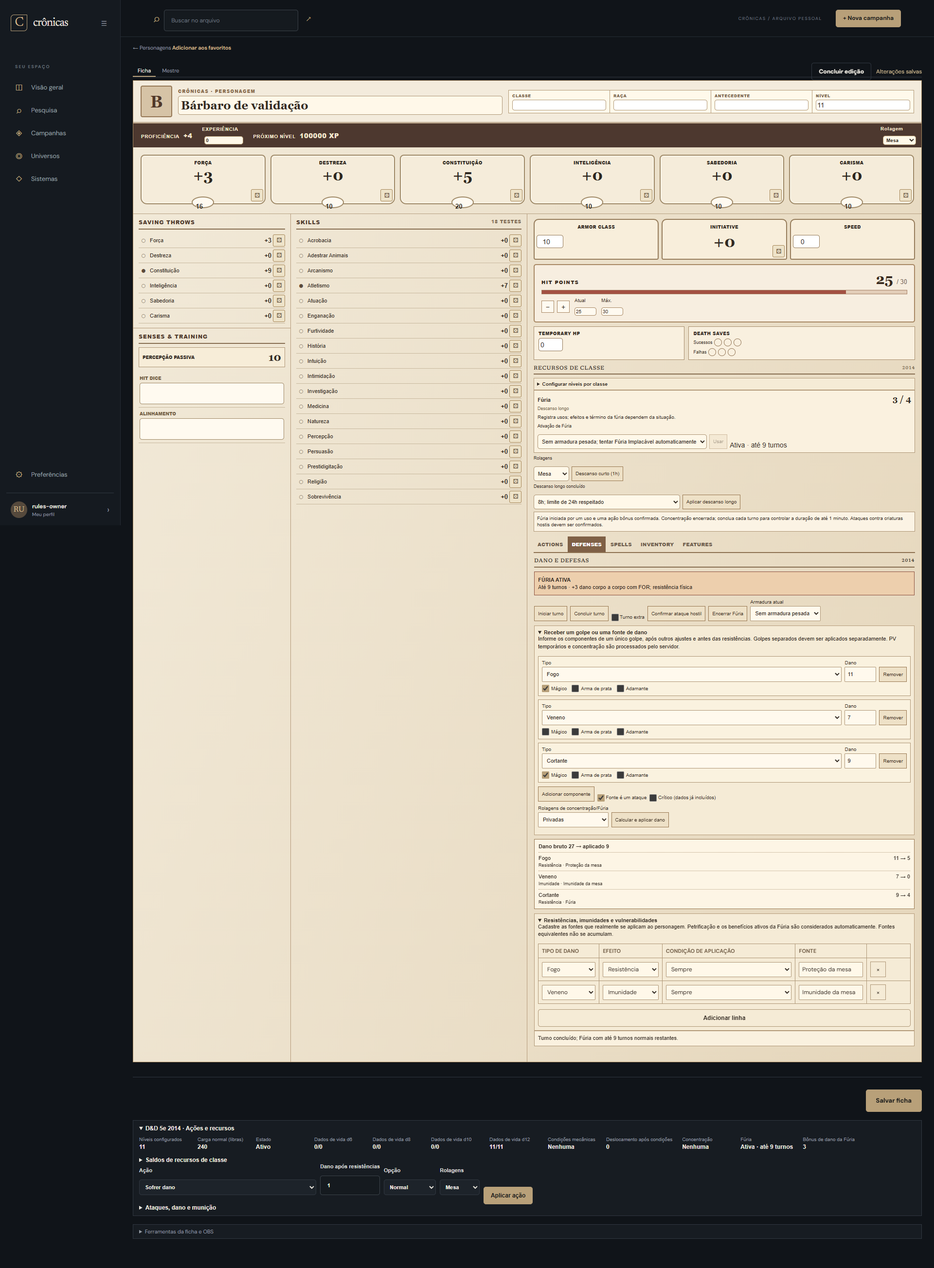
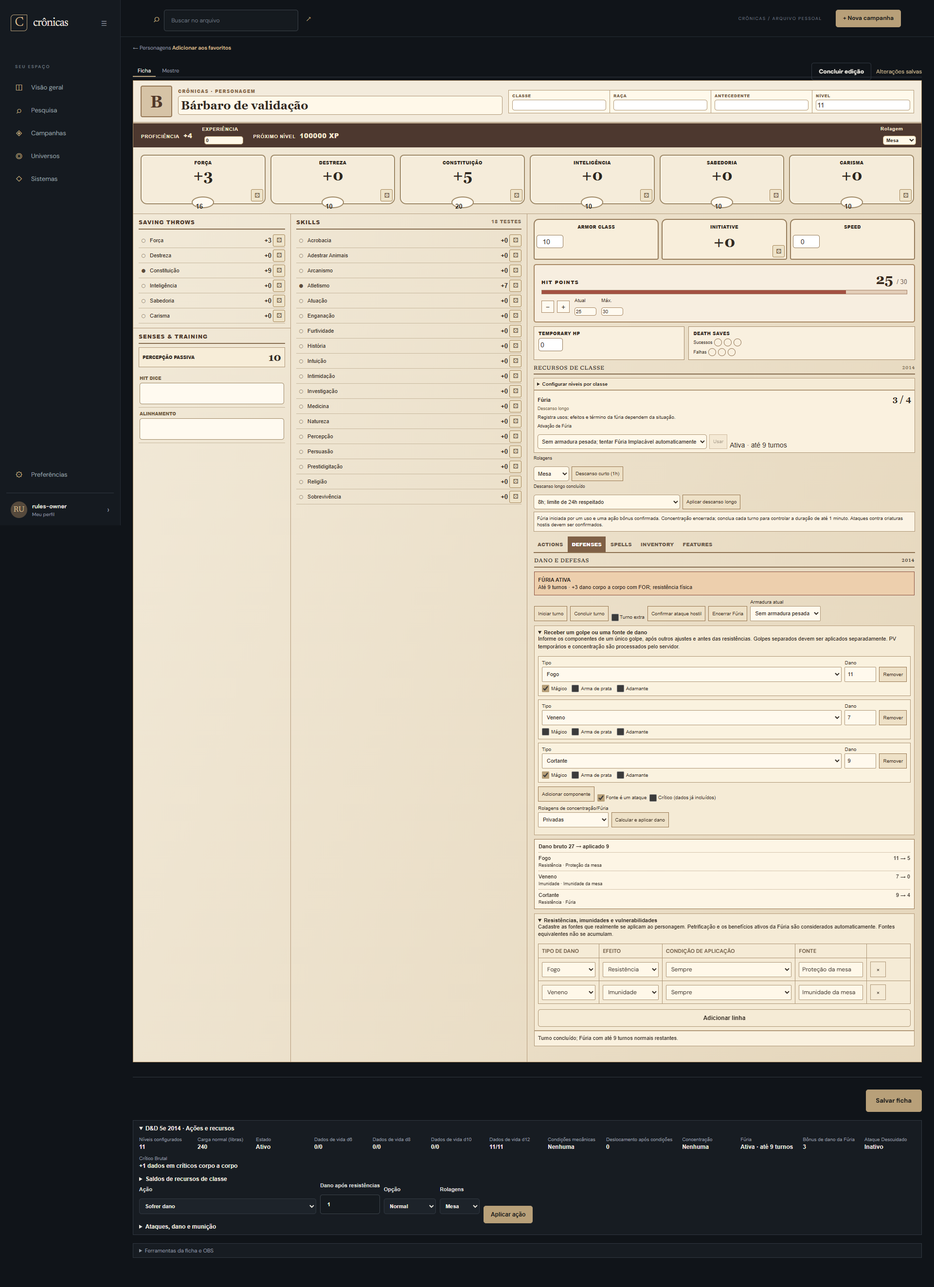
feat: add D&D 2014 reckless attack and brutal critical mechanics

diff --git a/web/src/app/sheet-weapon-list.component.ts b/web/src/app/sheet-weapon-list.component.ts
@@ -10,9 +10,16 @@ type SheetRow = Record<string, SheetCellValue>;
   <section *ngIf="field()" class="weapon-list" aria-label="Ataques do personagem">
     <div *ngIf="mode !== 'print' && rows().length" class="weapon-config"><label *ngIf="system.templateId !== 'call_of_cthulhu_7e'">Defesa do alvo<input type="number" aria-label="Defesa do alvo dos ataques" [(ngModel)]="target" [ngModelOptions]="{standalone:true}" min="0" max="9999"></label>
       <label class="hostile-confirm" *ngIf="system.templateId==='dnd_5e' && system.templateVersion===5"><input type="checkbox" aria-label="Alvo dos ataques é criatura hostil" [(ngModel)]="hostile" [ngModelOptions]="{standalone:true}"> Alvo é criatura hostil</label>
+      <ng-container *ngIf="barbarianAttacks()">
+        <label class="hostile-confirm"><input type="checkbox" aria-label="Ataque fora do meu turno" [(ngModel)]="outsideTurn" (ngModelChange)="reckless=false" [ngModelOptions]="{standalone:true}"> Fora do meu turno (reação)</label>
+        <label class="hostile-confirm"><input type="checkbox" aria-label="Usar Ataque Descuidado no primeiro ataque" [(ngModel)]="reckless" [ngModelOptions]="{standalone:true}" [disabled]="outsideTurn || ruleState('ataques_turno')>0"> Ataque Descuidado no primeiro ataque</label>
+        <label *ngIf="ruleState('nivel_barbaro')>=9">Dado da arma para Crítico Brutal<select aria-label="Dado da arma para Crítico Brutal" [(ngModel)]="brutalDie" [ngModelOptions]="{standalone:true}"><option [ngValue]="0">Automático</option><option *ngFor="let die of weaponDice" [ngValue]="die">d{{ die }}</option></select></label>
+      </ng-container>
       <label *ngIf="system.templateId === 'call_of_cthulhu_7e'">Dificuldade<select [(ngModel)]="difficulty" [ngModelOptions]="{standalone:true}"><option [ngValue]="1">Regular</option><option [ngValue]="2">Difícil</option><option [ngValue]="5">Extrema</option></select></label>
       <label>Visibilidade<select [(ngModel)]="visibility" [ngModelOptions]="{standalone:true}"><option value="campaign">Mesa</option><option value="private">Privada</option></select></label>
     </div>
+    <p *ngIf="barbarianAttacks() && ruleState('descuidado_exposto')" role="status">Ataque Descuidado: ataques contra você têm vantagem até o início do seu próximo turno. {{ ruleState('descuidado_turno') && !outsideTurn ? 'Seus ataques com arma corpo a corpo e FOR recebem vantagem neste turno.' : '' }}</p>
+    <p *ngIf="barbarianAttacks() && ruleState('nivel_barbaro')>=9">Crítico Brutal acrescenta dados da arma em críticos corpo a corpo. Informe somente o dano da arma em Dano base; efeitos adicionais pertencem a Dano extra.</p>
     <div *ngFor="let row of rows(); let index=index" class="weapon-row"><div><strong>{{ text(row,'nome') || 'Ataque sem nome' }}</strong><small>{{ baseLabel(row) }}<span *ngIf="ammo(row) >= 0"> · munição {{ ammo(row) }}</span></small></div><div class="damage"><b>{{ text(row,'dano') || '1' }}</b><small *ngIf="text(row,'dano_extra')">+ {{ text(row,'dano_extra') }} extra</small></div>
       <button *ngIf="mode !== 'print' && character.canEdit" type="button" [disabled]="!ready || busy() || ammo(row) === 0 || !text(row,'nome')" [attr.aria-label]="'Atacar com ' + text(row,'nome')" (click)="attack(index)">{{ busy() ? '…' : 'Rolar' }}</button>
     </div>
@@ -42,6 +49,9 @@ export class SheetWeaponListComponent {
   field() { return this.system.fields.find(field => field.key === 'ataques_regras'); }
   baseOptions() { return {...numericColumnOptions(this.system.fields),...(this.system.templateId==='dnd_5e'?{tipo:[{value:'corpo',label:'Arma corpo a corpo'},{value:'distancia',label:'Arma a distância ou arremessada'}]}:{})}; }
   hostile=false;
+  reckless=false; outsideTurn=false; brutalDie=0; weaponDice=[3,4,6,8,10,12,20,100];
+  ruleState(key:string){const rows=this.draft.fields['estado_regras'];if(!Array.isArray(rows))return 0;const row=rows.find(row=>row && typeof row==='object' && row['chave']===key);return row && typeof row==='object' && typeof row['valor']==='number'?row['valor']:0;}
+  barbarianAttacks(){return this.system.templateId==='dnd_5e' && this.system.templateVersion===5 && this.system.rulesetVersion==='2014' && this.ruleState('nivel_barbaro')>=2;}
   rows(): SheetRow[] { const value = this.draft.fields['ataques_regras']; return Array.isArray(value) && value.every(row => row && typeof row === 'object' && !Array.isArray(row)) ? value as SheetRow[] : []; }
   text(row: SheetRow, key: string) { return typeof row[key] === 'string' ? row[key] as string : ''; }
   baseLabel(row: SheetRow) { return this.system.fields.find(field => field.key === this.text(row, 'base'))?.label || 'Teste de ataque'; }
@@ -49,7 +59,7 @@ export class SheetWeaponListComponent {
   attack(index: number) {
     if (!this.character.canEdit || !this.ready || this.busy()) return;
     this.busy.set(true); this.working.emit(true); this.error.set(''); this.message.set(''); this.rolls.set([]);
-    this.api.applyCharacterRule(this.character.id, this.character.version, { action: 'attack', amount: this.system.templateId === 'call_of_cthulhu_7e' ? this.difficulty : this.target, option: String(index), visibility: this.visibility, ...(this.system.templateId==='dnd_5e' && this.hostile?{expression:'hostile'}:{}) })
-      .pipe(finalize(() => { this.busy.set(false); this.working.emit(false); })).subscribe({ next: result => { this.message.set(result.message); this.rolls.set(result.rolls); this.applied.emit(result.character); }, error: error => this.error.set(apiError(error)) });
+    this.api.applyCharacterRule(this.character.id, this.character.version, { action: 'attack', amount: this.system.templateId === 'call_of_cthulhu_7e' ? this.difficulty : this.target, option: String(index), visibility: this.visibility, ...(this.system.templateId==='dnd_5e' && this.hostile?{expression:'hostile'}:{}),...(this.barbarianAttacks()?{weapon:{reckless:this.reckless,outsideTurn:this.outsideTurn,brutalDie:this.brutalDie}}:{}) })
+      .pipe(finalize(() => { this.busy.set(false); this.working.emit(false); })).subscribe({ next: result => { this.reckless=false;this.message.set(result.message); this.rolls.set(result.rolls); this.applied.emit(result.character); }, error: error => this.error.set(apiError(error)) });
   }
 }

diff --git a/web/src/app/sheet-rule-controls.component.ts b/web/src/app/sheet-rule-controls.component.ts
@@ -17,6 +17,11 @@ interface RuleView { edition: string; actions: RuleAction[]; stats: { label: str
         <label>Ação<select name="ruleAction" [ngModel]="actionId" (ngModelChange)="choose($event)" [disabled]="busy()"><option *ngFor="let item of rules.actions" [value]="item.id">{{ item.label }}</option></select></label>
         <label *ngIf="action()?.amountLabel">{{ action()?.amountLabel }}<input type="number" name="amount" [(ngModel)]="amount" [min]="minimum()" [max]="maximum()" required [disabled]="busy()"></label>
         <label *ngIf="action()?.options?.length">Opção<select name="option" [(ngModel)]="option" [disabled]="busy()"><option *ngFor="let item of action()?.options" [value]="item.value">{{ item.label }}</option></select></label>
+        <ng-container *ngIf="barbarianAttackOptions()">
+          <label class="inline-check"><input type="checkbox" name="outsideTurn" [(ngModel)]="outsideTurn" (ngModelChange)="reckless=false" [disabled]="busy()"> Fora do meu turno (reação)</label>
+          <label class="inline-check"><input type="checkbox" name="reckless" [(ngModel)]="reckless" [disabled]="busy() || outsideTurn || (view()?.state?.['ataques_turno'] || 0)>0"> Ataque Descuidado no primeiro ataque</label>
+          <label *ngIf="(view()?.state?.['nivel_barbaro'] || 0)>=9">Dado de Crítico Brutal<select name="brutalDie" [(ngModel)]="brutalDie" [disabled]="busy()"><option [ngValue]="0">Automático</option><option *ngFor="let die of weaponDice" [ngValue]="die">d{{ die }}</option></select></label>
+        </ng-container>
         <label>Rolagens<select name="visibility" [(ngModel)]="visibility" [disabled]="busy()"><option value="campaign">Mesa</option><option value="private">Privadas</option><option *ngIf="isMaster" value="gm">Mestres</option></select></label>
         <button type="submit" class="button button-small" [disabled]="busy() || !ready || !action()">{{ busy() ? 'Aplicando…' : 'Aplicar ação' }}</button>
       </form>
@@ -32,6 +37,7 @@ interface RuleView { edition: string; actions: RuleAction[]; stats: { label: str
   </section><p *ngIf="!view() && error()" role="alert" class="form-error">{{ error() }}</p>
 `, styles: [`
  :host{display:block;min-width:0}.rule-controls{padding:9px 12px;border:1px solid var(--border);margin-block:9px;background:var(--surface);color:var(--text);font:12px var(--font-body,Arial,sans-serif)}summary{cursor:pointer;font-weight:700}dl{display:flex;gap:8px 20px;flex-wrap:wrap;margin:10px 0}dl>div{min-width:100px}dt{font-size:10px;color:var(--muted)}dd{margin:3px 0;font-weight:700}form{display:flex;align-items:end;flex-wrap:wrap;gap:8px}label{display:grid;gap:4px;min-width:0;font-size:11px}select,input{max-width:100%;min-height:32px;padding:4px 7px;background:var(--surface-raised);color:var(--text);border:1px solid var(--border)}input{width:110px}p{margin:8px 0 0;line-height:1.4}select:focus-visible,input:focus-visible{outline:2px solid var(--text);outline-offset:2px}@media(max-width:520px){form{display:grid;grid-template-columns:minmax(0,1fr)}label,input,select{width:100%}}@media print{form,p.muted{display:none}}
+ .inline-check{display:flex;align-items:center;gap:5px}.inline-check input[type=checkbox]{width:16px;height:16px;min-height:16px}
 `] })
 export class SheetRuleControlsComponent implements OnChanges, OnDestroy {
   @Input({ required: true }) character!: Character;
@@ -47,6 +53,8 @@ export class SheetRuleControlsComponent implements OnChanges, OnDestroy {
   view = signal<RuleView | null>(null); busy = signal(false); error = signal(''); message = signal('');
   rolls = signal<{ expression: string; rolls: number[]; keptIndexes: number[]; modifier: number; total: number }[]>([]);
   actionId = ''; option = ''; amount = 1; visibility: 'campaign' | 'private' | 'gm' = 'campaign';
+  reckless=false; outsideTurn=false; brutalDie=0; weaponDice=[3,4,6,8,10,12,20,100];
+  barbarianAttackOptions(){return this.actionId==='attack' && this.system.templateId==='dnd_5e' && this.system.templateVersion===5 && this.system.rulesetVersion==='2014' && (this.view()?.state?.['nivel_barbaro'] || 0)>=2;}
   private version = '';
   attackField() { return this.system.fields.find(field => field.key === 'ataques_regras'); }
   baseOptions() { return numericColumnOptions(this.system.fields); }
@@ -67,9 +75,9 @@ export class SheetRuleControlsComponent implements OnChanges, OnDestroy {
   apply() {
     if (!this.ready || this.busy() || !this.character.canEdit || !this.action()) return;
     this.busy.set(true); this.working.emit(true); this.error.set(''); this.message.set(''); this.rolls.set([]);
-    this.api.applyCharacterRule(this.character.id, this.character.version, { action: this.actionId, amount: this.amount, option: this.option || null, visibility: this.visibility })
+    this.api.applyCharacterRule(this.character.id, this.character.version, { action: this.actionId, amount: this.amount, option: this.option || null, visibility: this.visibility,...(this.barbarianAttackOptions()?{weapon:{reckless:this.reckless,outsideTurn:this.outsideTurn,brutalDie:this.brutalDie}}:{}) })
       .pipe(finalize(() => { this.busy.set(false); this.working.emit(false); })).subscribe({
-        next: result => { this.message.set(result.message); this.rolls.set(result.rolls); this.applied.emit(result.character); }, error: error => this.error.set(apiError(error))
+        next: result => { this.reckless=false;this.message.set(result.message); this.rolls.set(result.rolls); this.applied.emit(result.character); }, error: error => this.error.set(apiError(error))
       });
   }
   ngOnDestroy() { this.request?.unsubscribe(); }

diff --git a/web/src/app/api.ts b/web/src/app/api.ts
@@ -54,6 +54,7 @@ export type NarrativeInput = Pick<NarrativeEntry, 'title' | 'body' | 'category' 
 export interface DiceRoll { id: string; campaignId: string; userId: string; userName: string; expression: string; rolls: number[]; keptIndexes: number[]; modifier: number; total: number; visibility: 'campaign' | 'private' | 'gm'; createdAt: string; }
 export interface DamagePart { type: string; amount: number; magical: boolean; silvered: boolean; adamantine: boolean; }
 export interface DamageEvent { parts: DamagePart[]; critical: boolean; attack: boolean; }
+export interface WeaponContext { reckless: boolean; outsideTurn: boolean; brutalDie: number; }
 export interface DamageResolution { raw: number; total: number; groups: {type: string; raw: number; applied: number; immune: boolean; resistant: boolean; vulnerable: boolean; sources: string[]}[]; }
 export interface SearchResults {
   campaigns: { id: string; name: string; status: string; updatedAt: string }[];
@@ -148,7 +149,7 @@ export class ApiService {
   deleteAbility(id: string, abilityId: string, version: number) { return this.http.delete<void>(`/api/characters/${id}/abilities/${abilityId}`, { params: { version }, withCredentials: true }); }
   createCharacter(campaignId: string, data: CharacterInput) { return this.http.post<Character>(`/api/campaigns/${campaignId}/characters`, data, { withCredentials: true }); }
   characterRules(id: string) { return this.http.get<{ supported: boolean; rules?: unknown }>(`/api/characters/${id}/rules`, { withCredentials: true }); }
-  applyCharacterRule(id: string, expectedVersion: number, command: { action: string; amount: number; option: string | null; visibility: DiceRoll['visibility']; expression?: string; damage?: DamageEvent }) { return this.http.post<{ character: Character; message: string; rolls: { expression: string; rolls: number[]; keptIndexes: number[]; modifier: number; total: number }[]; damage?: DamageResolution | null }>(`/api/characters/${id}/rules`, { expectedVersion, command }, { withCredentials: true }); }
+  applyCharacterRule(id: string, expectedVersion: number, command: { action: string; amount: number; option: string | null; visibility: DiceRoll['visibility']; expression?: string; damage?: DamageEvent; weapon?: WeaponContext }) { return this.http.post<{ character: Character; message: string; rolls: { expression: string; rolls: number[]; keptIndexes: number[]; modifier: number; total: number }[]; damage?: DamageResolution | null }>(`/api/characters/${id}/rules`, { expectedVersion, command }, { withCredentials: true }); }
   updateCharacter(id: string, data: CharacterInput) { return this.http.put<Character>(`/api/characters/${id}`, data, { withCredentials: true }); }
   duplicateCharacter(id: string) { return this.http.post<Character>(`/api/characters/${id}/duplicate`, {}, { withCredentials: true }); }
   characterRevisions(id: string) { return this.http.get<CharacterRevision[]>(`/api/characters/${id}/revisions`, { withCredentials: true }); }

diff --git a/web/src/app/dnd-combat-panel.component.ts b/web/src/app/dnd-combat-panel.component.ts
@@ -5,12 +5,13 @@ import {Subscription,finalize} from 'rxjs';
 import {ApiService,Character,CharacterInput,DamagePart,DamageResolution,RpgSystem,apiError} from './api';
 import {SheetCollectionFieldComponent} from './sheet-collection-field.component';
 
-interface CombatView { damageTypes: {value:string;label:string}[]; raging:boolean; rageTurns:number; rageBonus:number; heavyArmor:boolean; relentlessDc:number; }
+interface CombatView { damageTypes: {value:string;label:string}[]; raging:boolean; rageTurns:number; rageBonus:number; heavyArmor:boolean; relentlessDc:number; reckless:boolean; exposed:boolean; brutalDice:number; }
 interface CombatRules { combat?:CombatView; actions:{id:string;options?:{value:string;label:string}[]}[]; }
 @Component({selector:'app-dnd-combat-panel',standalone:true,imports:[CommonModule,FormsModule,SheetCollectionFieldComponent],template:`
   <section *ngIf="view()?.combat as combat" class="combat-panel" aria-label="Dano e defesas D&D 2014">
     <h2>DANO E DEFESAS <small>2014</small></h2>
     <div class="rage-status" *ngIf="combat.raging"><b>FÚRIA ATIVA</b><span>Até {{ combat.rageTurns }} turnos · {{ combat.heavyArmor ? 'armadura pesada: benefícios suspensos' : '+' + combat.rageBonus + ' dano corpo a corpo com FOR; resistência física' }}</span></div>
+    <div class="rage-status" *ngIf="combat.exposed"><b>ATAQUE DESCUIDADO</b><span>Ataques contra você têm vantagem até o início do próximo turno. {{ combat.reckless ? 'Vantagem em seus ataques com arma corpo a corpo e FOR durante este turno.' : 'Benefício ofensivo encerrado.' }}</span></div>
     <div *ngIf="character.canEdit && mode !== 'print'" class="utilities">
       <button type="button" [disabled]="blocked()" (click)="execute('combat-turn-start')">Iniciar turno</button><button type="button" [disabled]="blocked()" (click)="execute(extraTurn ? 'combat-extra-turn-end' : 'combat-turn-end')">Concluir turno</button>
       <label><input type="checkbox" aria-label="Turno extra sem avanço de duração" [(ngModel)]="extraTurn" [ngModelOptions]="{standalone:true}"> Turno extra</label><button *ngIf="combat.raging" type="button" [disabled]="blocked()" (click)="execute('rage-hostile-attack')">Confirmar ataque hostil</button><button *ngIf="combat.raging" type="button" [disabled]="blocked()" (click)="execute('rage-end')">Encerrar Fúria</button>

diff --git a/tests/Chronicles.Rules.Tests/DndBarbarianAttackTests.cs b/tests/Chronicles.Rules.Tests/DndBarbarianAttackTests.cs
@@ -1,0 +1,57 @@
+using System.Text.Json;
+using Chronicles.Api;
+using static Chronicles.Api.CharacterEndpoints;
+
+public static class DndBarbarianAttackTests
+{
+    public static void Run()
+    {
+        var system=new SystemDefinition([
+            new("estado_regras","Estado","table","Regras",null,null,null),new("defesas_dano","Defesas","table","Defesas",null,null,null),new("ataques_regras","Armas","table","Ataques",null,null,null),
+            new("mod_forca","FOR","number","Atributos",null,null,null),new("mod_destreza","DES","number","Atributos",null,null,null)],null,"dnd_5e",5,"2014");
+        CharacterInput New(int level=9,string type="corpo",string ability="mod_forca",string damage="2d6+3",string extra="1d4")
+        {
+            var s=new RuleState(new("Bárbaro",null,null,30,30,0,0,0,0));s.Set("nivel_barbaro",level);s.Field("mod_forca",3);s.Field("mod_destreza",3);
+            s.Fields[WeaponActions.FieldKey]=JsonSerializer.SerializeToElement(new[]{new{nome="Arma",tipo=type,@base=ability,dano=damage,dano_extra=extra,municao=-1}});return s.Export();
+        }
+        RuleResult Attack(CharacterInput c,WeaponContext? weapon=null,Func<int,int>? draw=null,SystemDefinition? definition=null)=>SheetRuleActions.Apply(definition??system,c,new("attack",Option:"0",Weapon:weapon),draw??(sides=>sides));
+        CharacterInput Command(CharacterInput c,string action)=>SheetRuleActions.Apply(system,c,new(action),sides=>sides).Character;
+        CharacterInput State(CharacterInput c,string key,int value){var s=new RuleState(c);s.Set(key,value);return s.Export();}
+        void Check(bool value,string label){if(!value)throw new InvalidOperationException("D&D barbarian attacks: "+label);}
+        void Reject(Action action){try{action();}catch(ArgumentException){return;}throw new InvalidOperationException("Expected barbarian attack rejection.");}
+        var first=Attack(New(),new(Reckless:true));
+        Check(first.Rolls[0].Expression.StartsWith("2d20kh1",StringComparison.Ordinal),"first STR melee attack gains advantage");
+        Check(first.Rolls.Select(r=>r.Expression).SequenceEqual(new[]{"2d20kh1+3","4d6","2d4","1d6"}),"brutal critical adds one weapon die, not all 2d6, and never doubles extra again");
+        Check(first.Message.Contains("dano 41",StringComparison.Ordinal)&&first.Message.Contains("Crítico Brutal +1d6",StringComparison.Ordinal),"critical result includes original modifier and extra damage once");
+        Check(new RuleState(first.Character).Get("descuidado_exposto")==1,"incoming advantage persists in saved state");
+        Reject(()=>Attack(first.Character,new(Reckless:true)));
+        Check(Attack(first.Character).Rolls[0].Expression.StartsWith("2d20kh1",StringComparison.Ordinal),"subsequent melee STR attacks retain advantage");
+        Check(Attack(first.Character,new(OutsideTurn:true)).Rolls[0].Expression.StartsWith("1d20",StringComparison.Ordinal),"reactions outside turn do not gain reckless advantage");
+        var ended=Command(first.Character,"combat-turn-end");Check(new RuleState(ended).Get("descuidado_exposto")==1&&!Dnd2014BarbarianAttacks.Reckless(new(ended)),"end turn removes offensive benefit while preserving exposure");
+        var next=Command(ended,"combat-turn-start");Check(new RuleState(next).Get("descuidado_exposto")==0&&new RuleState(next).Get("ataques_turno")==0,"next turn ends exposure and resets attack count");
+        Check(Attack(next,new(Reckless:true)).Rolls[0].Expression.StartsWith("2d20kh1",StringComparison.Ordinal),"choice is available on next turn");
+        Reject(()=>Attack(New(1),new(Reckless:true)));Reject(()=>Attack(New(),new(Reckless:true,OutsideTurn:true)));
+        var regular=Attack(New(),draw:sides=>1);Reject(()=>Attack(regular.Character,new(Reckless:true)));
+        Check(Attack(New(),new(Reckless:true),sides=>1).Character.Fields![WeaponActions.FieldKey].ValueKind==JsonValueKind.Array,"miss still persists the first attack and reckless choice");
+        Check(Attack(State(New(),"cond_envenenado",1),new(Reckless:true)).Rolls[0].Expression.StartsWith("1d20",StringComparison.Ordinal),"condition disadvantage cancels reckless advantage");
+        Check(Attack(State(New(),"modo_ataque",-1),new(Reckless:true)).Rolls[0].Expression.StartsWith("1d20",StringComparison.Ordinal),"manual disadvantage also cancels advantage");
+        Check(Attack(New(9,ability:"mod_destreza"),new(Reckless:true)).Rolls[0].Expression.StartsWith("1d20",StringComparison.Ordinal),"DEX melee cannot benefit from reckless");
+        Check(Attack(New(9,ability:"mod_destreza")).Message.Contains("Crítico Brutal",StringComparison.Ordinal),"brutal critical does not require STR or rage");
+        Check(!Attack(New(9,type:"distancia"),new(Reckless:true)).Message.Contains("Crítico Brutal",StringComparison.Ordinal),"ranged or thrown attack has no brutal critical");
+        foreach(var (level,count) in new[]{(8,0),(9,1),(12,1),(13,2),(16,2),(17,3),(20,3)})
+        {
+            var result=Attack(New(level,damage:"1d12+3",extra:"0"));
+            Check(count>0 ? result.Rolls[^1].Expression==$"{count}d12" && result.Rolls.Length==3 : result.Rolls.Length==2,$"brutal tier {level}");
+        }
+        var noncritical=Attack(New(17),draw:sides=>Math.Min(sides,10));Check(noncritical.Rolls.Length==3&&!noncritical.Message.Contains("Crítico Brutal",StringComparison.Ordinal),"ordinary hits do not roll brutal dice");
+        Reject(()=>Attack(New(damage:"1d6+1d4+3")));Reject(()=>Attack(New(),new(BrutalDie:12)));Reject(()=>Attack(New(),new(BrutalDie:7)));
+        Check(Attack(New(damage:"1d6+1d4+3"),new(BrutalDie:6)).Rolls[^1].Expression=="1d6","mixed base dice require an explicit matching weapon die");
+        Check(!Attack(New(damage:"3",extra:"1d6")).Message.Contains("Crítico Brutal",StringComparison.Ordinal),"flat damage does not invent a weapon die from extra damage");
+        var outside=Attack(New(),new(OutsideTurn:true)).Character;Check(new RuleState(outside).Get("ataques_turno")==0,"reaction before own turn does not consume first-attack choice");
+        var confirmed=Command(New(),"rage-hostile-attack");Reject(()=>Attack(confirmed,new(Reckless:true)));
+        var old=Attack(New(),new(Reckless:true),definition:system with{TemplateVersion=4});Check(old.Rolls[0].Expression.StartsWith("1d20",StringComparison.Ordinal)&&!old.Message.Contains("Crítico Brutal",StringComparison.Ordinal),"legacy template does not silently activate new mechanics");
+        Reject(()=>Attack(State(New(),"cond_incapacitado",1),new(Reckless:true)));
+        Check(Dnd2014BarbarianAttacks.Validate(new(State(New(),"descuidado_turno",2))) is not null,"malformed state is rejected on autosave");
+        Console.WriteLine("D&D reckless attack, turn/reaction context, exposure, advantage cancellation, brutal critical dice and legacy compatibility passed.");
+    }
+}

diff --git a/api/Chronicles.Api/Dnd2014Rage.cs b/api/Chronicles.Api/Dnd2014Rage.cs
@@ -20,7 +20,7 @@ public static class Dnd2014Rage
         return result.ToArray();
     }
     public static bool Handles(string action) => action is "rage-start" or "rage-end" or "rage-hostile-attack" or "rage-armor" or "combat-turn-start" or "combat-turn-end" or "combat-extra-turn-end";
-    public static DndCombatView View(RuleState s) => new(Dnd2014Damage.Types,Active(s),s.Get("furia_rodadas"),Bonus(s),s.Get("furia_armadura_pesada")>0,10+5*s.Get("furia_implacavel_usos"));
+    public static DndCombatView View(RuleState s) => new(Dnd2014Damage.Types,Active(s),s.Get("furia_rodadas"),Bonus(s),s.Get("furia_armadura_pesada")>0,10+5*s.Get("furia_implacavel_usos"),Dnd2014BarbarianAttacks.Reckless(s),s.Get("descuidado_exposto")>0,Dnd2014BarbarianAttacks.BrutalDice(s));
     public static void End(RuleState s) { foreach(var key in new[]{"furia_rodadas","furia_atividade","furia_implacavel_auto","furia_armadura_pesada"}) s.Set(key,0); }
     public static string Apply(RuleState s,RuleCommand command)
     {
@@ -31,12 +31,12 @@ public static class Dnd2014Rage
                 Dnd2014ClassResources.Spend(s,"furia",1);s.Set("furia_rodadas",10);s.Set("furia_armadura_pesada",command.Option!.StartsWith("heavy",StringComparison.Ordinal)?1:0);s.Set("furia_implacavel_auto",command.Option.EndsWith("relentless",StringComparison.Ordinal)?1:0);s.Set("furia_atividade",s.Get("turno_atividade"));s.Set("concentrando",0);
                 return "Fúria iniciada por um uso e uma ação bônus confirmada. Concentração encerrada; conclua cada turno para controlar a duração de até 1 minuto. Ataques contra criaturas hostis devem ser confirmados.";
             case "rage-end": End(s);return "Fúria encerrada voluntariamente; a ação bônus deve estar disponível.";
-            case "rage-hostile-attack": MarkHostile(s);return "Ataque contra criatura hostil confirmado, mesmo se não causou dano ou ocorreu antes de entrar em Fúria.";
+            case "rage-hostile-attack": MarkHostile(s);Dnd2014BarbarianAttacks.ConfirmPreviousAttack(s);return "Ataque contra criatura hostil confirmado, mesmo se não causou dano ou ocorreu antes de entrar em Fúria.";
             case "rage-armor": RuleState.Require(Active(s),"Nenhuma Fúria ativa.");s.Set("furia_armadura_pesada",command.Option=="heavy"?1:0);return "Armadura atualizada; a Fúria só concede benefícios sem armadura pesada.";
-            case "combat-turn-start":s.Set("surto_turno",0);return "Novo turno confirmado; Surto liberado. A duração da Fúria avança ao concluir o turno.";
+            case "combat-turn-start":s.Set("surto_turno",0);Dnd2014BarbarianAttacks.StartTurn(s);return "Novo turno confirmado; Surto liberado e Ataque Descuidado encerrado. A duração da Fúria avança ao concluir o turno.";
             case "combat-turn-end":
             case "combat-extra-turn-end":
-                var activity=s.Get("furia_atividade")>0||s.Get("turno_atividade")>0;s.Set("turno_atividade",0);
+                var activity=s.Get("furia_atividade")>0||s.Get("turno_atividade")>0;s.Set("turno_atividade",0);Dnd2014BarbarianAttacks.EndTurn(s);
                 if(!Active(s)) return "Turno concluído.";
                 if(Unconscious(s)||command.Action=="combat-turn-end"&&s.Get("furia_rodadas")==1||s.Get("nivel_barbaro")<15&&!activity){End(s);return "Turno concluído; Fúria encerrada por duração, inconsciência ou ausência de ataque hostil/dano recebido.";}
                 if(command.Action=="combat-turn-end")s.Set("furia_rodadas",s.Get("furia_rodadas")-1);

diff --git a/api/Chronicles.Api/Dnd2014BarbarianAttacks.cs b/api/Chronicles.Api/Dnd2014BarbarianAttacks.cs
@@ -1,0 +1,55 @@
+namespace Chronicles.Api;
+
+public sealed record WeaponContext(bool Reckless = false, bool OutsideTurn = false, int BrutalDie = 0);
+
+// These rules use explicit weapon/turn context, never names of items or classes.
+public static class Dnd2014BarbarianAttacks
+{
+    public static bool Reckless(RuleState s) => s.Get("descuidado_turno") > 0;
+    public static int BrutalDice(RuleState s) => s.Get("nivel_barbaro") >= 17 ? 3 : s.Get("nivel_barbaro") >= 13 ? 2 : s.Get("nivel_barbaro") >= 9 ? 1 : 0;
+    public static void StartTurn(RuleState s)
+    {
+        s.Set("ataques_turno", 0); s.Set("descuidado_turno", 0); s.Set("descuidado_exposto", 0);
+    }
+    public static void EndTurn(RuleState s) => s.Set("descuidado_turno", 0);
+    public static void ConfirmPreviousAttack(RuleState s) => s.Set("ataques_turno", Math.Max(1, s.Get("ataques_turno")));
+    public static void Prepare(RuleState s, WeaponContext? context)
+    {
+        if (context?.Reckless == true)
+        {
+            RuleState.Require(s.Get("nivel_barbaro") >= 2 && s.Get("ataques_turno") == 0 && !context.OutsideTurn,
+                "Ataque Descuidado exige bárbaro 2 e deve ser escolhido no primeiro ataque do próprio turno.");
+            s.Set("descuidado_turno", 1); s.Set("descuidado_exposto", 1);
+        }
+        if (context?.OutsideTurn != true)
+        {
+            RuleState.Require(s.Get("ataques_turno") < 9999, "Confirme o início de um novo turno antes de atacar novamente.");
+            s.Set("ataques_turno", s.Get("ataques_turno") + 1);
+        }
+    }
+    public static bool Advantage(RuleState s, string type, string ability, WeaponContext? context) =>
+        Reckless(s) && s.Get("nivel_barbaro") >= 2 && type == "corpo" && ability == "mod_forca" && context?.OutsideTurn != true;
+    public static int WeaponDie(RuleState s, string type, string formula, WeaponContext? context)
+    {
+        RuleState.Require(context is null || context.BrutalDie is 0 or 3 or 4 or 6 or 8 or 10 or 12 or 20 or 100, "Dado de Crítico Brutal inválido.");
+        if (type != "corpo" || BrutalDice(s) == 0) return 0;
+        var dice = DamageFormula.Parse(formula, s).Where(term => term.Count > 0 && term.Sign > 0).Select(term => term.Sides).Distinct().ToArray();
+        if (dice.Length == 0)
+        {
+            RuleState.Require(context?.BrutalDie is null or 0, "A fórmula base não contém o dado de arma escolhido.");
+            return 0;
+        }
+        if (context is { BrutalDie: > 0 })
+        {
+            RuleState.Require(dice.Contains(context.BrutalDie), "O dado de Crítico Brutal deve estar no dano base da arma, não no dano extra.");
+            return context.BrutalDie;
+        }
+        RuleState.Require(dice.Length == 1, "Dano base com dados diferentes: escolha o dado da arma para Crítico Brutal e mantenha efeitos adicionais no dano extra.");
+        return dice[0];
+    }
+    public static string? Validate(RuleState s)
+    {
+        if (s.Get("ataques_turno") is < 0 or > 9999 || new[] { "descuidado_turno", "descuidado_exposto" }.Any(key => s.Get(key) is < 0 or > 1)) return "Estado de Ataque Descuidado inválido.";
+        return null;
+    }
+}

diff --git a/api/Chronicles.Api/WeaponActions.cs b/api/Chronicles.Api/WeaponActions.cs
@@ -36,6 +36,9 @@ public static partial class WeaponActions
             if (dnd) Dnd2014Conditions.CanAttack(s);
             var baseKey = Text(row, "base", dnd ? "mod_forca" : "per_luta");
             RuleState.Require(system.Fields.Any(f => f.Key == baseKey && f.Type == "number"), "Escolha a chave de um atributo, modificador ou perícia numérica do sistema.");
+            var barbarian = dnd && Dnd2014Damage.Supports(system);
+            var brutalDie = barbarian ? Dnd2014BarbarianAttacks.WeaponDie(s, Text(row,"tipo"), damageFormula, command.Weapon) : 0;
+            if (barbarian) Dnd2014BarbarianAttacks.Prepare(s,command.Weapon);
             string expression;
             if (!dnd)
             {
@@ -47,7 +50,7 @@ public static partial class WeaponActions
             {
                 var bonus = s.N(baseKey) + Number(row, "bonus");
                 if (dnd && Flag(row, "treinado")) bonus += s.N("proficiencia");
-                var mode = dnd ? Dnd2014Conditions.Mode(s, "attack", s.Get("modo_ataque")) : 0;
+                var mode = Dnd2014Conditions.Mode(s, "attack", s.Get("modo_ataque"), advantageSource: barbarian && Dnd2014BarbarianAttacks.Advantage(s,Text(row,"tipo"),baseKey,command.Weapon));
                 RuleState.Require(mode is >= -1 and <= 1, "Modo de ataque inválido.");
                 expression = (mode == 0 ? "1d20" : mode > 0 ? "2d20kh1" : "2d20kl1") + (bonus < 0 ? bonus.ToString() : "+" + bonus);
             }
@@ -63,9 +66,13 @@ public static partial class WeaponActions
             else
             {
                 var rageBonus=dnd && Dnd2014Damage.Supports(system) && baseKey=="mod_forca" && Text(row,"tipo")=="corpo" ? Dnd2014Rage.Bonus(s) : 0;
-                var damage = Math.Max(0, DamageFormula.Evaluate(damageFormula, s, critical ? multiplier : 1) + DamageFormula.Evaluate(extra, s, critical && dnd ? 2 : 1) + rageBonus);
-                message = $"{name}: {expression} = {total}{(critical ? " · crítico" : "")}; dano {damage}{(rageBonus>0?$" (inclui +{rageBonus} de Fúria)":"")}. " + (command.Amount == 0 ? "Defesa não informada; confirme o acerto antes de aplicar." : "Aplique ao alvo após resistências e imunidades.");
+                var damage = DamageFormula.Evaluate(damageFormula, s, critical ? multiplier : 1) + DamageFormula.Evaluate(extra, s, critical && dnd ? 2 : 1) + rageBonus;
+                var brutalCount = critical && brutalDie > 0 ? Dnd2014BarbarianAttacks.BrutalDice(s) : 0;
+                if (brutalCount > 0) damage += s.Pool(brutalCount,brutalDie);
+                damage = Math.Max(0,damage);
+                message = $"{name}: {expression} = {total}{(critical ? " · crítico" : "")}; dano {damage}{(rageBonus>0?$" (inclui +{rageBonus} de Fúria)":"")}{(brutalCount>0?$" · Crítico Brutal +{brutalCount}d{brutalDie}":"")}. " + (command.Amount == 0 ? "Defesa não informada; confirme o acerto antes de aplicar." : "Aplique ao alvo após resistências e imunidades.");
             }
+            if (barbarian && s.Get("descuidado_exposto")>0) message += " Ataques contra você têm vantagem até o início do seu próximo turno.";
         }
         if (ammo > 0)
         {

diff --git a/api/Chronicles.Api/SheetRuleActions.cs b/api/Chronicles.Api/SheetRuleActions.cs
@@ -3,7 +3,7 @@ using static Chronicles.Api.CharacterEndpoints;
 
 namespace Chronicles.Api;
 
-public sealed record RuleCommand(string Action, int Amount = 0, string? Option = null, string Visibility = "campaign", string? Expression = null, DamageEvent? Damage = null);
+public sealed record RuleCommand(string Action, int Amount = 0, string? Option = null, string Visibility = "campaign", string? Expression = null, DamageEvent? Damage = null, WeaponContext? Weapon = null);
 public sealed record RuleChoice(string Value, string Label);
 public sealed record RuleAction(string Id, string Label, string? AmountLabel = null, RuleChoice[]? Options = null, bool Hidden = false);
 public sealed record RuleStat(string Label, string Value);
@@ -56,6 +56,7 @@ public static class SheetRuleActions
         if (system.TemplateId == "dnd_5e") view = view with { Actions = [.. view.Actions, .. Dnd2014Conditions.Actions(system), .. Dnd2014ClassResources.Actions(system, s)], Stats = [.. view.Stats, .. Dnd2014Conditions.Stats(s), .. Dnd2014ClassResources.Stats(s)], Resources = Dnd2014ClassResources.Resources(s),
             Settings = [.. view.Settings, new("modo_testes", "Testes: −1 desvantagem, 0 normal, 1 vantagem", -1, 1), new("fonte_medo_oculta", "Fonte do medo fora de vista (0 ou 1)", 0, 1), new("alvo_ve_invisivel", "Alvo consegue ver invisibilidade (0 ou 1)", 0, 1), new("alvo_encantador", "Alvo é a fonte do encanto (0 ou 1)", 0, 1), new("sentido_percepcao", "Percepção: 0 geral, 1 visão, 2 audição", 0, 2), new("vantagem_concentracao", "Concentração: −1 desvantagem, 0 normal, 1 vantagem", -1, 1)] };
         if(Dnd2014Damage.Supports(system)) view=view with {Actions=[..view.Actions,..Dnd2014Rage.Actions(system,s),..(system.Fields.Any(f=>f.Key==Dnd2014Damage.FieldKey)?new RuleAction[]{new("damage-typed","Receber dano por tipo",Hidden:true)}:[])],Stats=[..view.Stats,new("Fúria",Dnd2014Rage.Active(s)?$"Ativa · até {s.Get("furia_rodadas")} turnos":"Inativa"),new("Bônus de dano da Fúria",Dnd2014Rage.Bonus(s).ToString())],Combat=Dnd2014Rage.View(s)};
+        if(Dnd2014Damage.Supports(system) && s.Get("nivel_barbaro")>=2) view=view with {Stats=[..view.Stats,new("Ataque Descuidado",s.Get("descuidado_exposto")>0?"Ataques contra você têm vantagem até seu próximo turno":"Inativo"),new("Crítico Brutal",$"+{Dnd2014BarbarianAttacks.BrutalDice(s)} dados em críticos corpo a corpo")]};
         return view with { Actions = [.. view.Actions, .. weaponActions, new RuleAction("configure", "Salvar configuração", "Valor", view.Settings.Select(x => new RuleChoice(x.Key, x.Label)).ToArray())] };
     }
 

diff --git a/api/Chronicles.Api/Dnd2014Conditions.cs b/api/Chronicles.Api/Dnd2014Conditions.cs
@@ -9,10 +9,10 @@ public static class Dnd2014Conditions
     public static bool Has(RuleState s, string key) => s.Get("cond_" + key) > 0;
     public static bool Incapacitated(RuleState s) => s.Health == 0 || s.Get("morto") > 0 || new[] { "incapacitado", "paralisado", "petrificado", "atordoado", "inconsciente" }.Any(key => Has(s, key));
     public static void CanAttack(RuleState s) { RuleState.Require(!Incapacitated(s), "Incapacitado não pode realizar ataques."); RuleState.Require(!Has(s, "enfeiticado") || s.Get("alvo_encantador") == 0, "Enfeitiçado não pode atacar a fonte do encanto."); }
-    public static int Mode(RuleState s, string kind, int manual = 0, bool strength = false)
+    public static int Mode(RuleState s, string kind, int manual = 0, bool strength = false, bool advantageSource = false)
     {
         var fear = Has(s, "amedrontado") && s.Get("fonte_medo_oculta") == 0;
-        var advantage = manual > 0 || strength && kind is "ability" or "save" && Dnd2014Rage.Benefits(s) || kind == "attack" && Has(s, "invisivel") && s.Get("alvo_ve_invisivel") == 0;
+        var advantage = advantageSource || manual > 0 || strength && kind is "ability" or "save" && Dnd2014Rage.Benefits(s) || kind == "attack" && Has(s, "invisivel") && s.Get("alvo_ve_invisivel") == 0;
         var disadvantage = manual < 0 || kind == "attack" && (Has(s, "cego") || Has(s, "caido") || Has(s, "impedido") || Has(s, "envenenado") || fear || s.Get("exaustao") >= 3)
             || kind == "ability" && (Has(s, "envenenado") || fear || s.Get("exaustao") >= 1)
             || kind == "save" && s.Get("exaustao") >= 3;

diff --git a/api/Chronicles.Api/Dnd2014ClassResources.cs b/api/Chronicles.Api/Dnd2014ClassResources.cs
@@ -76,7 +76,7 @@ public static class Dnd2014ClassResources
     }
     public static void Rest(RuleState s, bool longRest, bool meditation)
     {
-        Dnd2014Rage.End(s);s.Set("furia_implacavel_usos",0);s.Set("turno_atividade",0);
+        Dnd2014Rage.End(s);s.Set("furia_implacavel_usos",0);s.Set("turno_atividade",0);Dnd2014BarbarianAttacks.StartTurn(s);
         foreach (var resource in Resources(s))
         {
             var shortRecharge = resource.Id is "canalizar" or "forma_selvagem" or "folego" or "surto" || resource.Id == "inspiracao" && L(s, "bardo") >= 5;
@@ -99,7 +99,7 @@ public static class Dnd2014ClassResources
         switch (c.Action)
         {
             case "class-spend": Spend(s, c.Option!, c.Amount); return "Recurso de classe gasto. Aplique o efeito da habilidade escolhida; o alvo não foi alterado.";
-            case "class-turn": s.Set("surto_turno", 0); return "Novo turno confirmado; Surto de Ação liberado para este turno, respeitando os usos restantes.";
+            case "class-turn": s.Set("surto_turno", 0); Dnd2014BarbarianAttacks.StartTurn(s); return "Novo turno confirmado; Ataque Descuidado encerrado e Surto de Ação liberado para este turno, respeitando os usos restantes.";
             case "second-wind":
                 Spend(s, "folego", 1); var heal = s.Roll("1d10+" + L(s, "guerreiro"));
                 Dnd2014Rules.Apply(s, new("heal", heal)); return $"Retomar o Fôlego: {s.Rolls[^1].Expression} [{string.Join(", ", s.Rolls[^1].Rolls)}] = {heal}; até {heal} PV recuperados; uso gasto.";

diff --git a/api/Chronicles.Api/Dnd2014Damage.cs b/api/Chronicles.Api/Dnd2014Damage.cs
@@ -6,7 +6,7 @@ public sealed record DamagePart(string Type, int Amount, bool Magical = false, b
 public sealed record DamageEvent(DamagePart[] Parts, bool Critical = false, bool Attack = false);
 public sealed record DamageGroup(string Type, int Raw, int Applied, bool Immune, bool Resistant, bool Vulnerable, string[] Sources);
 public sealed record DamageResolution(int Raw, int Total, DamageGroup[] Groups);
-public sealed record DndCombatView(RuleChoice[] DamageTypes, bool Raging, int RageTurns, int RageBonus, bool HeavyArmor, int RelentlessDc);
+public sealed record DndCombatView(RuleChoice[] DamageTypes, bool Raging, int RageTurns, int RageBonus, bool HeavyArmor, int RelentlessDc, bool Reckless, bool Exposed, int BrutalDice);
 
 public static class Dnd2014Damage
 {
@@ -34,7 +34,7 @@ public static class Dnd2014Damage
             if (Defenses(s).Any(row => (row.Type.Length>0 || complete) && row.Type != "all" && !Types.Any(t=>t.Value==row.Type)
                 || (row.Effect.Length>0 || complete) && row.Effect is not ("resistance" or "immunity" or "vulnerability")
                 || row.Condition is not ("" or "always" or "nonmagical" or "nonmagical_attacks" or "nonmagical_nonsilvered_attacks" or "nonmagical_nonadamantine_attacks"))) return "Escolha tipo, efeito e condição válidos para cada defesa de dano.";
-            return Dnd2014Rage.Validate(s);
+            return Dnd2014Rage.Validate(s) ?? Dnd2014BarbarianAttacks.Validate(s);
         }
         catch (ArgumentException e) { return e.Message; }
     }
